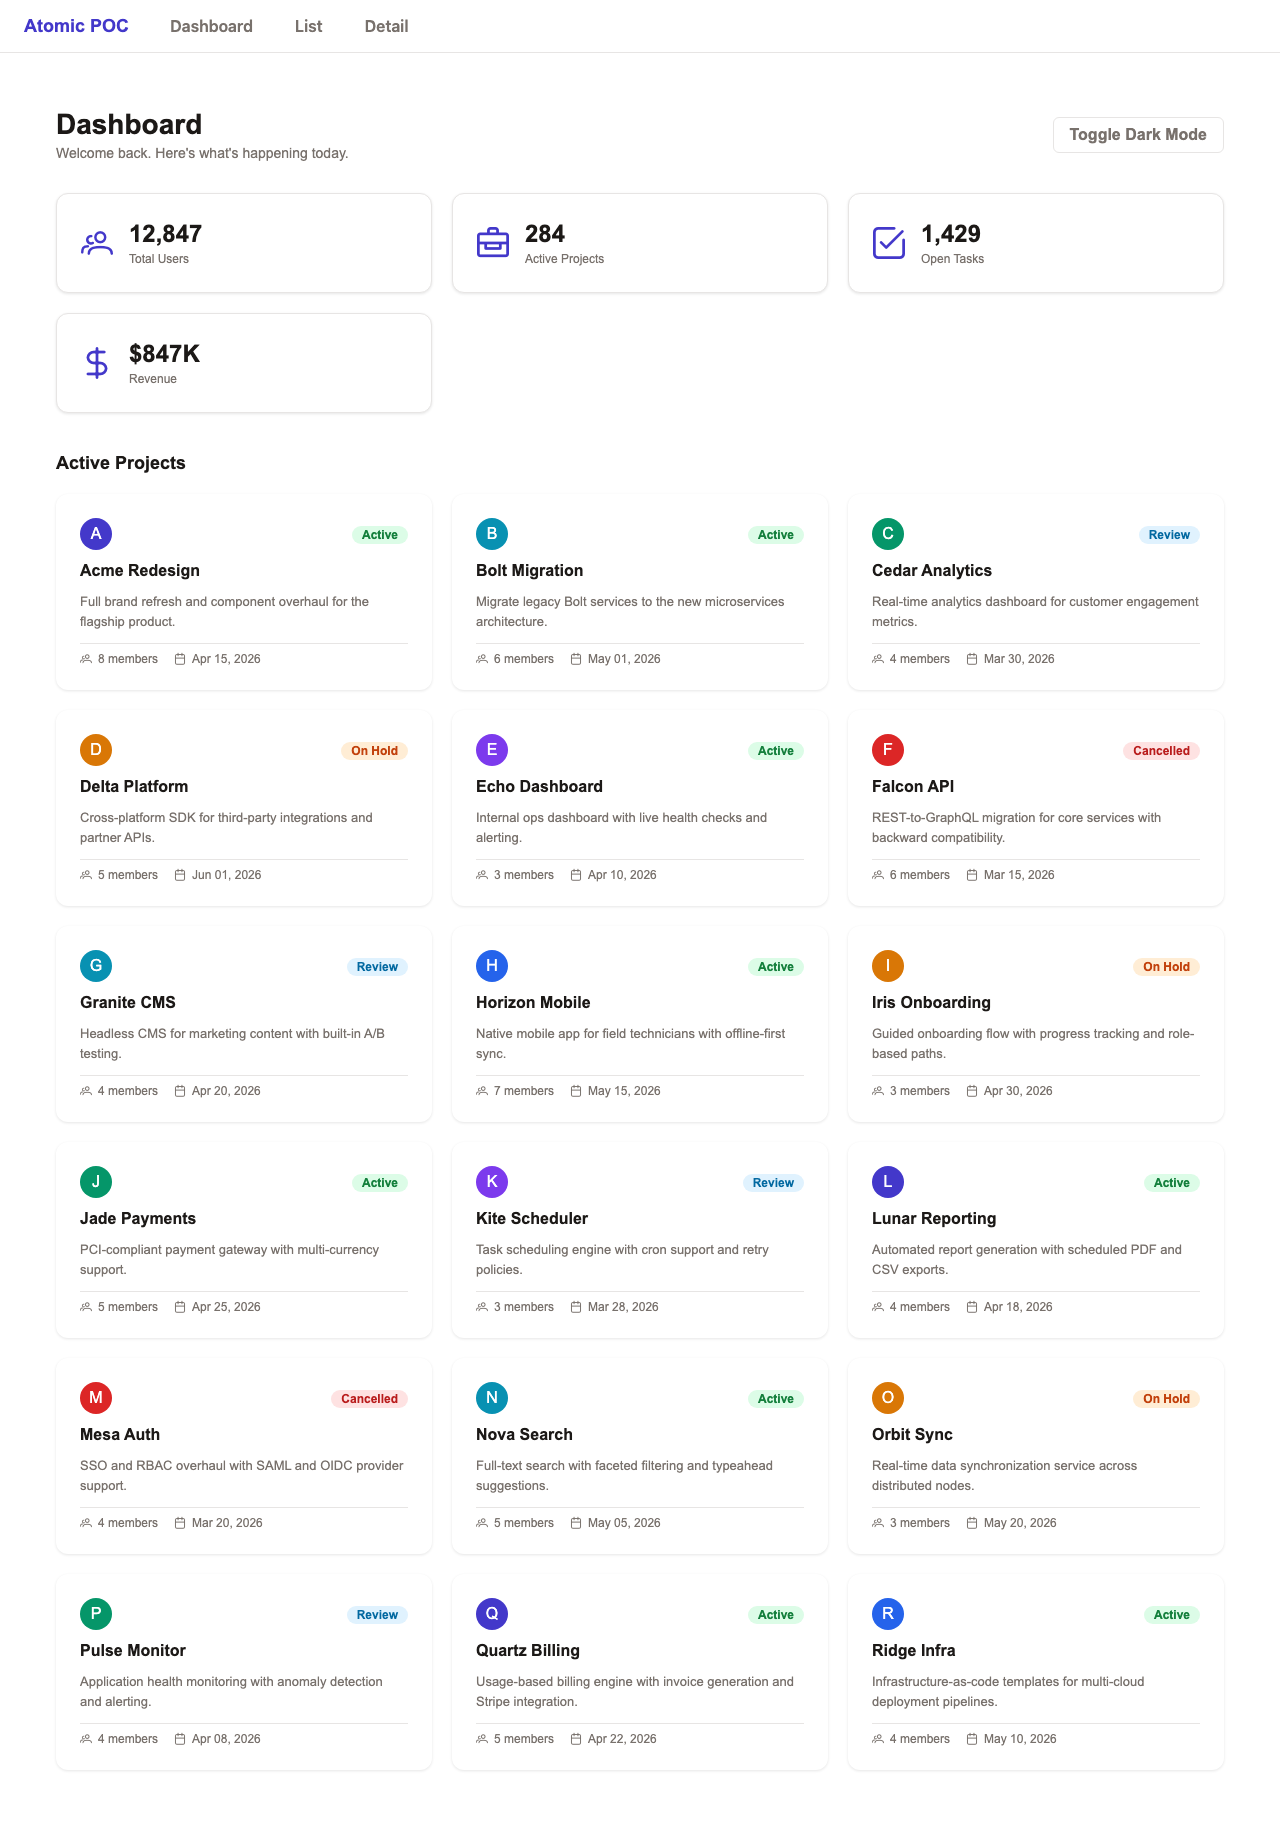
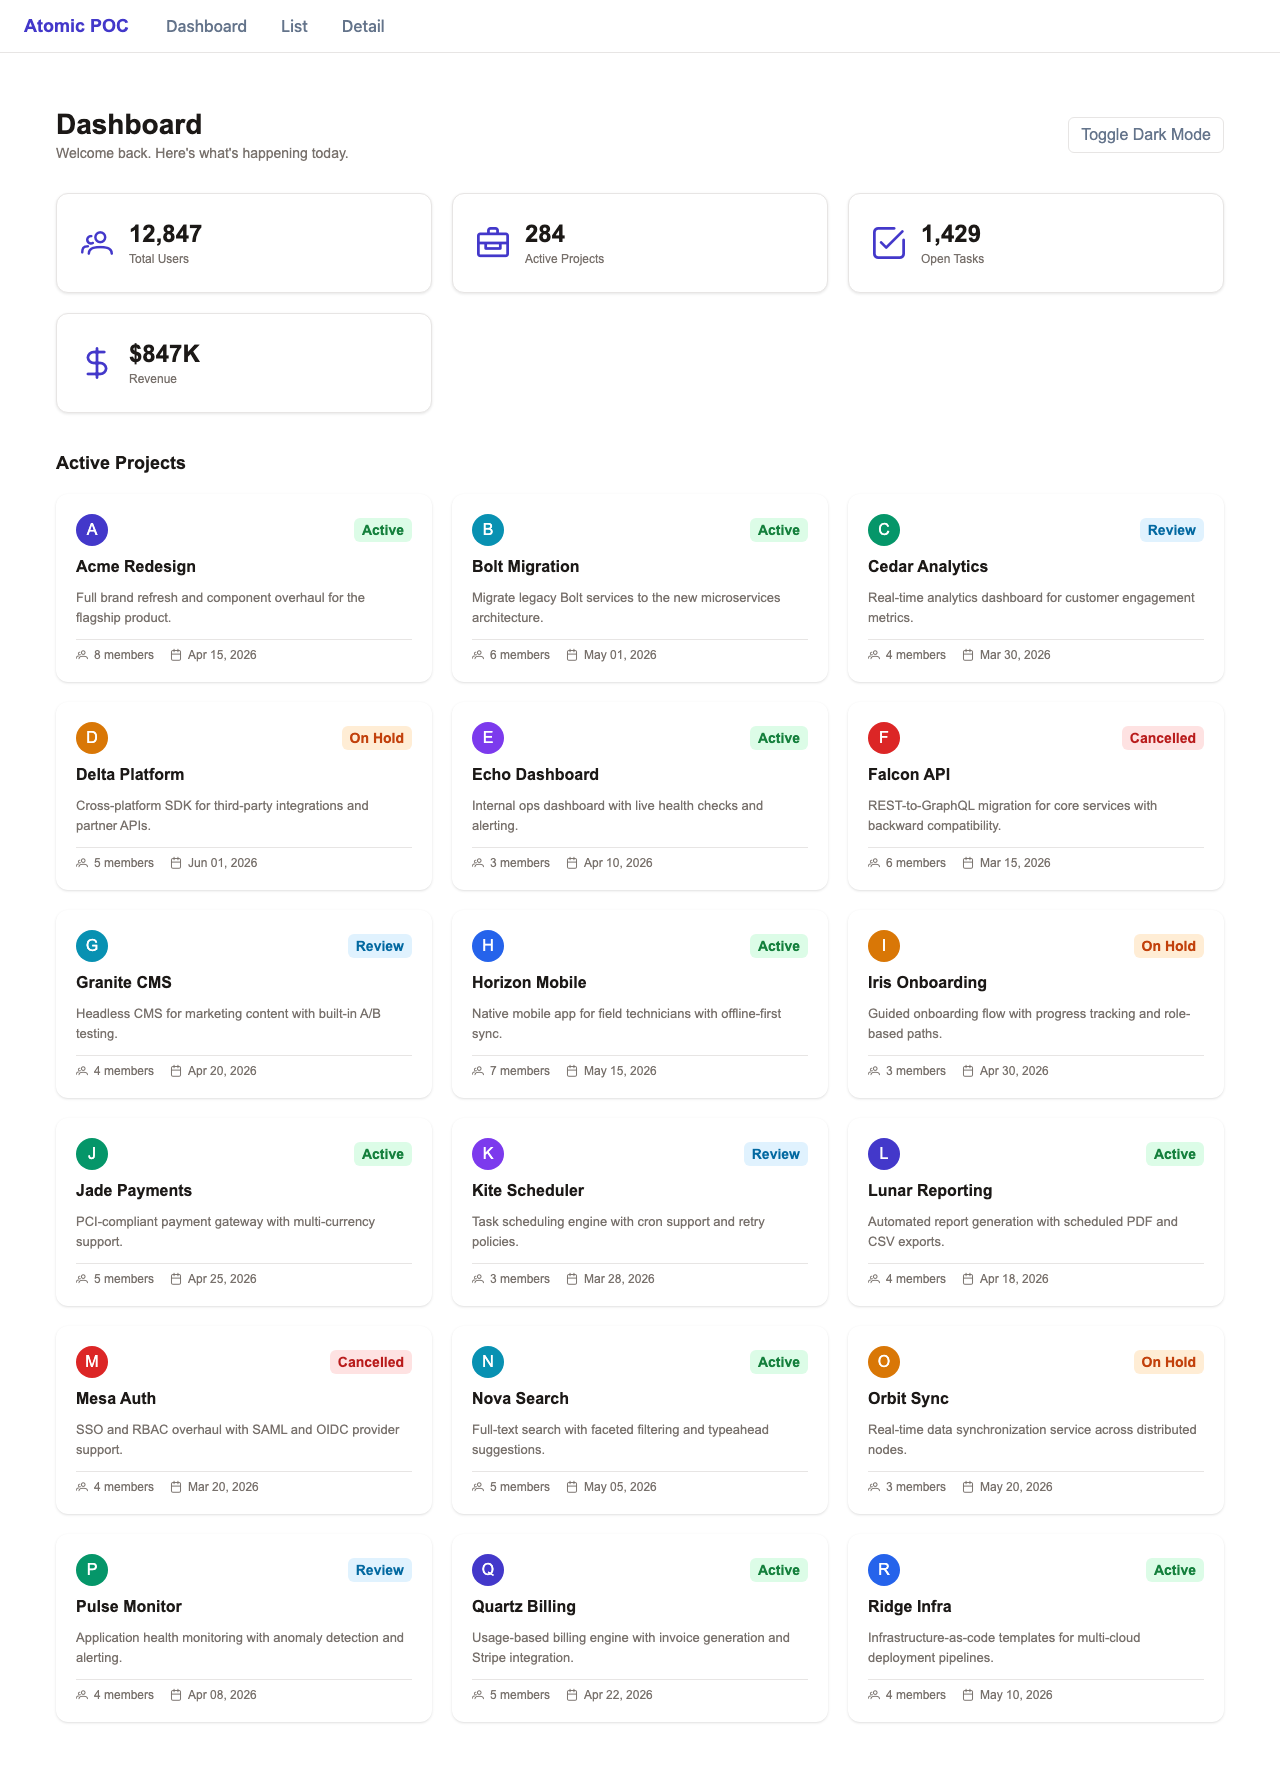
chore: apply security, devex, and OSS review findings
Security:
- Pin GitHub Actions to full commit SHAs (no floating @vN tags)
- Add E2E Playwright step to CI
- Change MSW onUnhandledRequest from 'bypass' to 'warn'
- Add X-Content-Type-Options, X-Frame-Options, Referrer-Policy headers to index.html

Accessibility:
- Fix form-field label/input association via for/id binding
- Add role="search" to search-bar wrapper; remove eslint-disable suppression
- Add aria-hidden="true" to decorative PrimeIcons across components
- Document output event naming convention on DsButton

DevEx:
- Fix stale VSCode launch.json Karma debug port (port 9876 → note about Vitest)
- Add npm clean and test:coverage scripts
- Add rimraf devDependency

OSS:
- Add CHANGELOG.md (v1.0.0 and v1.0.1)
- Add CODE_OF_CONDUCT.md
- Add .github/CONTRIBUTING.md clarifying reference-only model
- Add .github/pull_request_template.md and ISSUE_TEMPLATE files
- Add repository, homepage, bugs fields to package.json

Docs:
- Add educational disclaimer to README, docs/README.md, docs/00-quickstart.md
- Add httpResource() experimental API risk callout to simulation-report.md
- Fix @defer bundle-size description in production-plan-sketch.md
- Add Node 25 LTS note to README

diff --git a/src/app/design-system/tokens/preset.ts b/src/app/design-system/tokens/preset.ts
@@ -1,166 +1,52 @@
+// Generated by Style Dictionary — do not edit manually
 import { definePreset } from '@primeng/themes';
 import Aura from '@primeng/themes/aura';
 
-const CustomPreset = definePreset(Aura, {
-  // Primitive tier: raw palette values
+export default definePreset(Aura, {
   primitive: {
     indigo: {
-      500: '#4338CA', // Brand Indigo
-      400: '#6366F1', // Brand Indigo Light
-      600: '#3730A3', // Brand Indigo Dark
+      '400': '#6366F1',
+      '500': '#4338CA',
+      '600': '#3730A3',
     },
     red: {
-      500: '#DC2626', // Danger Red
-      600: '#B91C1C', // Danger Red Dark (hover)
+      '500': '#DC2626',
     },
     green: {
-      500: '#16A34A', // Success Green
+      '500': '#16A34A',
     },
     amber: {
-      500: '#D97706', // Warning Amber
+      '500': '#D97706',
     },
     stone: {
-      50: '#FAFAF9', // Surface Warm
-      100: '#F5F5F4', // Surface Muted
-      200: '#E7E5E4', // Border color
-      500: '#78716C', // Text Secondary
-      900: '#1C1917', // Text Primary
+      '50': '#FAFAF9',
+      '100': '#F5F5F4',
+      '200': '#E7E5E4',
     },
     borderRadius: {
-      none: '0',
-      xs: '2px',
-      sm: '4px',
       md: '6px',
-      lg: '8px',
-      xl: '12px',
+      lg: '12px',
     },
   },
-
-  // Semantic tier: intent-based aliases
   semantic: {
-    primary: {
-      50: '#EEF2FF',
-      100: '#E0E7FF',
-      200: '#C7D2FE',
-      300: '#A5B4FC',
-      400: '#818CF8',
-      500: '#6366F1',
-      600: '#4338CA',
-      700: '#3730A3',
-      800: '#312E81',
-      900: '#1E1B4B',
-      950: '#0F0D2E',
-    },
     colorScheme: {
       light: {
         primary: {
           color: '#4338CA',
-          contrastColor: '#FFFFFF',
           hoverColor: '#6366F1',
           activeColor: '#3730A3',
         },
-        highlight: {
-          background: '#E0E7FF',
-          focusBackground: '#C7D2FE',
-          color: '#4338CA',
-          focusColor: '#3730A3',
-        },
         surface: {
-          0: '#FFFFFF',
-          50: '#FAFAF9',
-          100: '#F5F5F4',
-          200: '#E7E5E4',
-          300: '#D6D3D1',
-          400: '#A8A29E',
-          500: '#78716C',
-          600: '#57534E',
-          700: '#44403C',
-          800: '#292524',
-          900: '#1C1917',
-          950: '#0C0A09',
+          '0': '#FFFFFF',
+          '50': '#FAFAF9',
+          '100': '#F5F5F4',
+          '200': '#E7E5E4',
         },
         text: {
           color: '#1C1917',
-          hoverColor: '#0C0A09',
           mutedColor: '#78716C',
-          hoverMutedColor: '#57534E',
         },
-      },
-      dark: {
-        primary: {
-          color: '#6366F1',
-          contrastColor: '#FFFFFF',
-          hoverColor: '#818CF8',
-          activeColor: '#4338CA',
-        },
-        highlight: {
-          background: '#312E81',
-          focusBackground: '#3730A3',
-          color: '#A5B4FC',
-          focusColor: '#C7D2FE',
-        },
-        // Surface scale keeps the same convention in both modes:
-        // 0 = lightest (base/contrast), 900 = darkest.
-        // PrimeNG uses surface.0 for light-mode backgrounds and surface.900
-        // for dark-mode backgrounds (via --p-content-background).
-        surface: {
-          0: '#FAFAF9',
-          50: '#F5F5F4',
-          100: '#E7E5E4',
-          200: '#D6D3D1',
-          300: '#A8A29E',
-          400: '#78716C',
-          500: '#57534E',
-          600: '#44403C',
-          700: '#292524',
-          800: '#1C1917',
-          900: '#0C0A09',
-          950: '#050403',
-        },
-        text: {
-          color: '#FAFAF9',
-          hoverColor: '#FFFFFF',
-          mutedColor: '#A8A29E',
-          hoverMutedColor: '#D6D3D1',
-        },
-      },
-    },
-  },
-
-  // Component tier: structural overrides only (border-radius, padding, font).
-  // Do NOT override colors here — PrimeNG's Aura theme handles light/dark
-  // color switching automatically via the semantic colorScheme. Component-level
-  // color overrides bypass dark mode because {token} references resolve at
-  // build time, not runtime.
-  components: {
-    button: {
-      root: {
-        borderRadius: '6px',
-        paddingX: '16px',
-        paddingY: '8px',
-        label: {
-          fontWeight: '600',
-        },
-      },
-    },
-    tag: {
-      root: {
-        borderRadius: '9999px',
-        fontSize: '12px',
-        fontWeight: '600',
-        padding: '2px 10px',
-      },
-    },
-    card: {
-      root: {
-        borderRadius: '12px',
-        shadow: '0 1px 3px rgba(0,0,0,0.1)',
-      },
-      body: {
-        padding: '24px',
       },
     },
   },
 });
-
-export default CustomPreset;

diff --git a/src/app/pages/detail/detail.ts b/src/app/pages/detail/detail.ts
@@ -70,21 +70,21 @@ import { DsInput } from '../../design-system/atoms/input/input';
           <p-divider />
 
           <div class="info-section">
-            <ds-form-field label="Project Name">
-              <ds-input [value]="p.name" placeholder="Project Name" />
+            <ds-form-field label="Project Name" inputId="field-name">
+              <ds-input [value]="p.name" placeholder="Project Name" id="field-name" />
             </ds-form-field>
-            <ds-form-field label="Owner">
-              <ds-input [value]="p.owner" placeholder="Owner" />
+            <ds-form-field label="Owner" inputId="field-owner">
+              <ds-input [value]="p.owner" placeholder="Owner" id="field-owner" />
             </ds-form-field>
-            <ds-form-field label="Created">
-              <ds-input [value]="p.createdDate" placeholder="Created" />
+            <ds-form-field label="Created" inputId="field-created">
+              <ds-input [value]="p.createdDate" placeholder="Created" id="field-created" />
             </ds-form-field>
-            <ds-form-field label="Category">
-              <ds-input [value]="p.category" placeholder="Category" />
+            <ds-form-field label="Category" inputId="field-category">
+              <ds-input [value]="p.category" placeholder="Category" id="field-category" />
             </ds-form-field>
             <div class="full-width">
-              <ds-form-field label="Description" [fullWidth]="true">
-                <ds-input [value]="p.description" placeholder="Description" />
+              <ds-form-field label="Description" [fullWidth]="true" inputId="field-description">
+                <ds-input [value]="p.description" placeholder="Description" id="field-description" />
               </ds-form-field>
             </div>
           </div>

diff --git a/src/app/design-system/molecules/form-field/form-field.stories.ts b/src/app/design-system/molecules/form-field/form-field.stories.ts
@@ -16,24 +16,24 @@ export default meta;
 type Story = StoryObj<DsFormField>;
 
 export const Default: Story = {
-  args: { label: 'Project Name' },
+  args: { label: 'Project Name', inputId: 'story-project-name' },
   render: (args) => ({
     props: args,
     template: `
-      <ds-form-field [label]="label">
-        <ds-input placeholder="Enter project name" />
+      <ds-form-field [label]="label" [inputId]="inputId">
+        <ds-input placeholder="Enter project name" [id]="inputId" />
       </ds-form-field>
     `,
   }),
 };
 
 export const FullWidth: Story = {
-  args: { label: 'Description', fullWidth: true },
+  args: { label: 'Description', fullWidth: true, inputId: 'story-description' },
   render: (args) => ({
     props: args,
     template: `
-      <ds-form-field [label]="label" [fullWidth]="fullWidth">
-        <ds-input placeholder="Enter description" />
+      <ds-form-field [label]="label" [fullWidth]="fullWidth" [inputId]="inputId">
+        <ds-input placeholder="Enter description" [id]="inputId" />
       </ds-form-field>
     `,
   }),

diff --git a/src/app/design-system/molecules/form-field/form-field.ts b/src/app/design-system/molecules/form-field/form-field.ts
@@ -5,8 +5,7 @@ import { ChangeDetectionStrategy, Component, input } from '@angular/core';
   changeDetection: ChangeDetectionStrategy.OnPush,
   template: `
     <div class="form-field" [class.full-width]="fullWidth()">
-      <!-- eslint-disable-next-line @angular-eslint/template/label-has-associated-control -->
-      <label class="form-field-label">{{ label() }}</label>
+      <label class="form-field-label" [for]="inputId()">{{ label() }}</label>
       <ng-content />
     </div>
   `,
@@ -32,4 +31,6 @@ import { ChangeDetectionStrategy, Component, input } from '@angular/core';
 export class DsFormField {
   label = input.required<string>();
   fullWidth = input(false);
+  /** Must match the `id` passed to the nested ds-input so the label is associated via for/id. */
+  inputId = input.required<string>();
 }

diff --git a/src/app/design-system/molecules/form-field/form-field.spec.ts b/src/app/design-system/molecules/form-field/form-field.spec.ts
@@ -5,8 +5,8 @@ import { DsFormField } from './form-field';
 @Component({
   imports: [DsFormField],
   template: `
-    <ds-form-field label="Project Name">
-      <input type="text" class="projected-input" />
+    <ds-form-field label="Project Name" inputId="test-name">
+      <input type="text" id="test-name" class="projected-input" />
     </ds-form-field>
   `,
 })
@@ -20,6 +20,7 @@ describe('DsFormField', () => {
     });
     const fixture = TestBed.createComponent(DsFormField);
     fixture.componentRef.setInput('label', 'Project Name');
+    fixture.componentRef.setInput('inputId', 'test-label');
     fixture.detectChanges();
 
     const label = fixture.nativeElement.querySelector('.form-field-label');

diff --git a/src/app/design-system/organisms/project-card-grid/project-card-grid.html b/src/app/design-system/organisms/project-card-grid/project-card-grid.html
@@ -39,8 +39,8 @@
           <h3 class="project-name">{{ project.name }}</h3>
           <p class="project-description">{{ project.description }}</p>
           <div class="project-meta">
-            <span class="meta-item"><i class="pi pi-users"></i> {{ project.members }} members</span>
-            <span class="meta-item"><i class="pi pi-calendar"></i> {{ project.deadline }}</span>
+            <span class="meta-item"><i class="pi pi-users" aria-hidden="true"></i> {{ project.members }} members</span>
+            <span class="meta-item"><i class="pi pi-calendar" aria-hidden="true"></i> {{ project.deadline }}</span>
           </div>
         </div>
       </p-card>

diff --git a/src/app/design-system/molecules/search-bar/search-bar.ts b/src/app/design-system/molecules/search-bar/search-bar.ts
@@ -14,8 +14,7 @@ import { DsInput, DsButton } from '../../atoms';
   imports: [DsInput, DsButton],
   changeDetection: ChangeDetectionStrategy.OnPush,
   template: `
-    <!-- eslint-disable-next-line @angular-eslint/template/interactive-supports-focus -->
-    <div class="search-bar" (keydown.enter)="searched.emit(value())">
+    <div class="search-bar" role="search" (keydown.enter)="searched.emit(value())">
       <ds-input [(value)]="value" [placeholder]="placeholder()" />
       <ds-button label="Search" severity="primary" (clicked)="searched.emit(value())" />
     </div>

diff --git a/src/app/design-system/atoms/button/button.ts b/src/app/design-system/atoms/button/button.ts
@@ -20,6 +20,11 @@ type ButtonSeverity =
  *
  * Why wrap? Isolates consumers from PrimeNG API changes, enforces design constraints,
  * and makes it possible to swap the underlying library without touching every consumer.
+ *
+ * Output naming convention: generic actions on this atom use `clicked` because the
+ * component has no domain context. Composed molecules and organisms should use
+ * descriptive names (e.g. `actionClicked` on DsEmptyState, `retryClicked` on grids)
+ * so that parent templates read clearly at a glance.
  */
 @Component({
   selector: 'ds-button',

diff --git a/src/app/design-system/atoms/input/input.ts b/src/app/design-system/atoms/input/input.ts
@@ -13,9 +13,10 @@ import { InputText } from 'primeng/inputtext';
   selector: 'ds-input',
   imports: [InputText, FormsModule],
   changeDetection: ChangeDetectionStrategy.OnPush,
-  template: ` <input pInputText [(ngModel)]="value" [placeholder]="placeholder()" /> `,
+  template: ` <input pInputText [(ngModel)]="value" [placeholder]="placeholder()" [id]="id()" /> `,
 })
 export class DsInput {
   value = model<string>('');
   placeholder = input<string>('');
+  id = input<string>('');
 }

diff --git a/src/app/design-system/atoms/empty-state/empty-state.ts b/src/app/design-system/atoms/empty-state/empty-state.ts
@@ -7,7 +7,7 @@ import { DsButton } from '../button/button';
   changeDetection: ChangeDetectionStrategy.OnPush,
   template: `
     <div class="empty-state">
-      <i class="pi {{ icon() }} empty-icon"></i>
+      <i class="pi {{ icon() }} empty-icon" aria-hidden="true"></i>
       <p class="empty-message">{{ message() }}</p>
       @if (actionLabel()) {
         <ds-button [label]="actionLabel()!" severity="primary" (clicked)="actionClicked.emit()" />

diff --git a/src/index.html b/src/index.html
@@ -6,6 +6,10 @@
     <base href="/" />
     <meta name="viewport" content="width=device-width, initial-scale=1" />
     <link rel="icon" type="image/x-icon" href="favicon.ico" />
+    <!-- Security headers -->
+    <meta http-equiv="X-Content-Type-Options" content="nosniff" />
+    <meta http-equiv="X-Frame-Options" content="DENY" />
+    <meta name="referrer" content="strict-origin-when-cross-origin" />
   </head>
   <body>
     <app-root></app-root>

diff --git a/src/app/design-system/molecules/stat-card/stat-card.ts b/src/app/design-system/molecules/stat-card/stat-card.ts
@@ -6,7 +6,7 @@ import { ChangeDetectionStrategy, Component, input } from '@angular/core';
   template: `
     <div class="stat-card">
       <div class="stat-icon">
-        <i class="pi" [class]="icon()"></i>
+        <i class="pi" [class]="icon()" aria-hidden="true"></i>
       </div>
       <div class="stat-content">
         <span class="stat-value">{{ value() }}</span>
